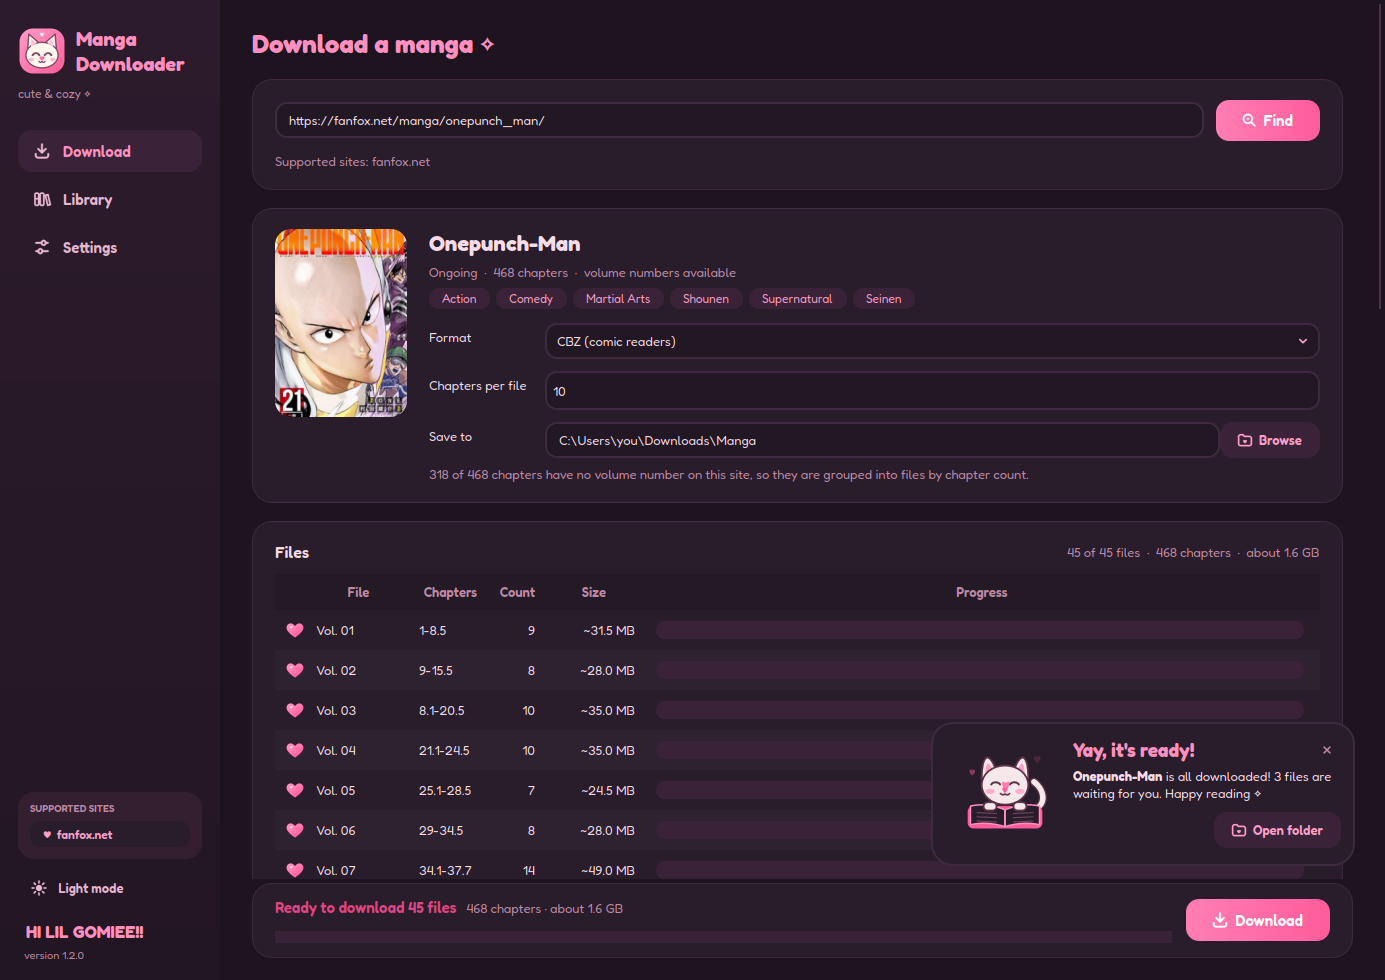
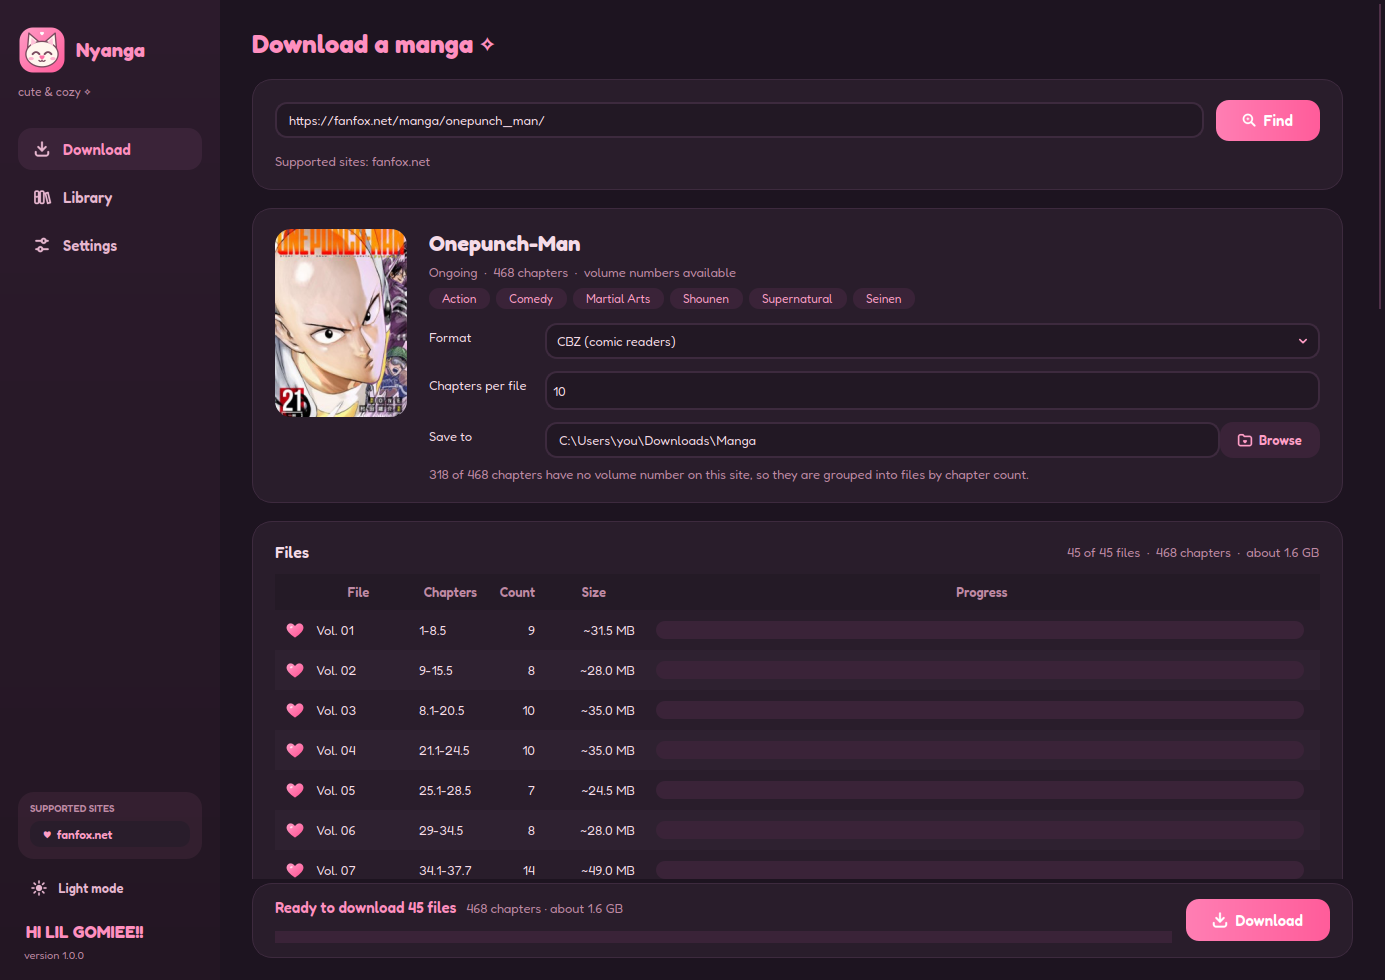
feat: rename the app to Nyanga
The app is now called Nyanga (nyan + manga), after the cat mascot. The window, sidebar,
installer, Start menu shortcut and exe all use the new name, and settings live in
%APPDATA%\Nyanga. The project lives at github.com/RealOrangeKun/nyanga.

diff --git a/updater.py b/updater.py
@@ -1,6 +1,6 @@
 """Finds newer releases on GitHub and installs them. Only the installed Windows app updates itself.
 
-Each release carries a MangaDownloader-Setup-<version>.exe. Updating downloads it and runs it
+Each release carries a Nyanga-Setup-<version>.exe. Updating downloads it and runs it
 silently: it closes the app, replaces its files, and opens the new version. No GUI code in here.
 """
 
@@ -20,10 +20,10 @@ import requests
 import paths
 from version import __version__
 
-REPO = "RealOrangeKun/manga-downloader"
+REPO = "RealOrangeKun/nyanga"
 RELEASES_PAGE = f"https://github.com/{REPO}/releases/latest"
 _API = f"https://api.github.com/repos/{REPO}/releases/latest"
-_FOLDER = Path(tempfile.gettempdir()) / "manga-downloader-update"
+_FOLDER = Path(tempfile.gettempdir()) / "nyanga-update"
 
 
 @dataclass
@@ -66,7 +66,7 @@ def is_newer(release: Release) -> bool:
 def download(release: Release, progress: Callable[[int, int], None]) -> Path:
     """Saves the installer to the temp folder, calling progress(done, total) as it goes."""
     _FOLDER.mkdir(parents=True, exist_ok=True)
-    out = _FOLDER / f"MangaDownloader-Setup-{release.version}.exe"
+    out = _FOLDER / f"Nyanga-Setup-{release.version}.exe"
     part = out.with_suffix(".part")
     with requests.get(release.url, stream=True, timeout=30) as resp:
         resp.raise_for_status()

diff --git a/gui.py b/gui.py
@@ -1440,7 +1440,7 @@ class MainWindow(QWidget):
 
     def __init__(self):
         super().__init__(objectName="root")
-        self.setWindowTitle("Manga Downloader")
+        self.setWindowTitle("Nyanga")
         self.setWindowIcon(theme.app_icon())
         self.resize(1120, 840)
         self.settings = Settings.load()
@@ -1460,7 +1460,7 @@ class MainWindow(QWidget):
         mascot = QLabel()
         mascot.setPixmap(theme.app_pixmap(96).scaled(48, 48, Qt.KeepAspectRatio, Qt.SmoothTransformation))
         brand.addWidget(mascot)
-        brand.addWidget(label("Manga\nDownloader", "logo"))
+        brand.addWidget(label("Nyanga", "logo"))
         brand.addStretch(1)
         sl.addLayout(brand)
         sl.addSpacing(4)
@@ -1706,8 +1706,8 @@ class MainWindow(QWidget):
 
 def main() -> None:
     app = QApplication(sys.argv)
-    app.setApplicationName("manga-downloader")
-    app.setApplicationDisplayName("Manga Downloader")
+    app.setApplicationName("nyanga")
+    app.setApplicationDisplayName("Nyanga")
     app.setFont(theme.load_font())
     app.setWindowIcon(theme.app_icon())
     window = MainWindow()

diff --git a/paths.py b/paths.py
@@ -15,8 +15,8 @@ _HERE = Path(__file__).resolve().parent
 BUNDLE = Path(getattr(sys, "_MEIPASS", _HERE))
 
 # Settings and library. From source they stay next to the script (git-ignored); the installed app
-# can't write to its own folder and an update replaces it, so it uses %APPDATA%\Manga Downloader.
+# can't write to its own folder and an update replaces it, so it uses %APPDATA%\Nyanga.
 if FROZEN:
-    DATA = Path(os.environ.get("APPDATA") or Path.home() / ".config") / "Manga Downloader"
+    DATA = Path(os.environ.get("APPDATA") or Path.home() / ".config") / "Nyanga"
 else:
     DATA = _HERE

diff --git a/scripts/next_version.py b/scripts/next_version.py
@@ -86,7 +86,7 @@ def main() -> None:
         for key, heading in SECTIONS:
             if notes[key]:
                 parts.append(f"### {heading}\n" + "".join(f"- {line}\n" for line in notes[key]))
-        parts.append("Download **MangaDownloader-Setup-{0}.exe** below and run it. Already installed? "
+        parts.append("Download **Nyanga-Setup-{0}.exe** below and run it. Already installed? "
                      "The app updates itself.\n".format(version))
         args.notes.write_text("\n".join(parts), encoding="utf-8")
     if args.write_version:

diff --git a/nyanga.py b/nyanga.py
@@ -1,5 +1,5 @@
 #!/usr/bin/env python3
-"""Manga downloader: opens the GUI."""
+"""Nyanga, the manga downloader: opens the GUI."""
 
 import multiprocessing
 

diff --git a/README.md b/README.md
@@ -1,17 +1,18 @@
 <p align="center">
-  <img src="assets/readme/icon.png" width="96" alt="The Manga Downloader cat">
+  <img src="assets/readme/icon.png" width="96" alt="The Nyanga cat">
 </p>
 
-<h1 align="center">Manga Downloader</h1>
+<h1 align="center">Nyanga</h1>
 
 <p align="center">
   <b>a cute &amp; cozy pink app that downloads manga for you ✧</b><br>
+  <i>nyan + manga: the cat fetches your chapters</i><br>
   one file per volume: CBZ, PDF, EPUB or plain image folders
 </p>
 
 <p align="center">
-  <a href="https://github.com/RealOrangeKun/manga-downloader/releases/latest"><img alt="Latest release" src="https://img.shields.io/github/v/release/RealOrangeKun/manga-downloader?style=for-the-badge&color=ff5c9a&label=latest"></a>
-  <a href="https://github.com/RealOrangeKun/manga-downloader/releases"><img alt="Downloads" src="https://img.shields.io/github/downloads/RealOrangeKun/manga-downloader/total?style=for-the-badge&color=ff9cc6"></a>
+  <a href="https://github.com/RealOrangeKun/nyanga/releases/latest"><img alt="Latest release" src="https://img.shields.io/github/v/release/RealOrangeKun/nyanga?style=for-the-badge&color=ff5c9a&label=latest"></a>
+  <a href="https://github.com/RealOrangeKun/nyanga/releases"><img alt="Downloads" src="https://img.shields.io/github/downloads/RealOrangeKun/nyanga/total?style=for-the-badge&color=ff9cc6"></a>
   <img alt="Windows" src="https://img.shields.io/badge/windows-installer-ffb3cf?style=for-the-badge">
 </p>
 
@@ -23,7 +24,7 @@
 </p>
 
 <p align="center">
-  <a href="https://github.com/RealOrangeKun/manga-downloader/releases/latest"><b>⬇ Download for Windows</b></a>
+  <a href="https://github.com/RealOrangeKun/nyanga/releases/latest"><b>⬇ Download for Windows</b></a>
   &nbsp;·&nbsp; <a href="#-using-it">How to use it</a>
   &nbsp;·&nbsp; <a href="#-run-from-source">Run from source</a>
 </p>
@@ -84,14 +85,14 @@ so they follow the light and dark theme.
 
 ## 💝 Install (Windows)
 
-1. Open the [latest release](https://github.com/RealOrangeKun/manga-downloader/releases/latest) and
-   download **MangaDownloader-Setup-x.y.z.exe**.
+1. Open the [latest release](https://github.com/RealOrangeKun/nyanga/releases/latest) and
+   download **Nyanga-Setup-x.y.z.exe**.
 2. Run it. Windows may say "Windows protected your PC" because the app isn't signed: click
    **More info**, then **Run anyway**. No admin rights are needed.
 3. Used it with Python before? On the **Bring your old settings** page, tick the import and pick
-   the folder that has `manga_dl.py` in it. Its `settings.json` and `library` folder (history
+   the folder that has `nyanga.py` in it. Its `settings.json` and `library` folder (history
    and covers) are copied into the installed app.
-4. Open **Manga Downloader** from the Start menu.
+4. Open **Nyanga** from the Start menu.
 
 That's the only time you install it ✧
 
@@ -99,7 +100,7 @@ That's the only time you install it ✧
 
 When a new version is out, a card pops up with **Update now**. It downloads the new version,
 installs it and reopens by itself. Your settings and library are kept (they live in
-`%APPDATA%\Manga Downloader`).
+`%APPDATA%\Nyanga`).
 
 Pressed **Later**? A button waits at the top right. While an update downloads with the card
 closed, that spot shows the delivery cat and how far along it is:
@@ -147,8 +148,8 @@ Every manga you've downloaded gets a card with its cover, how much of the series
 - **Delay between requests**: shared by all workers, so more workers never means more
   requests per second. Sites ask for human browsing speed; going too low can get you blocked.
 
-Settings and history are saved in `%APPDATA%\Manga Downloader` in the installed app, or next to
-`manga_dl.py` (`settings.json` and `library/`, both git-ignored) when running from source.
+Settings and history are saved in `%APPDATA%\Nyanga` in the installed app, or next to
+`nyanga.py` (`settings.json` and `library/`, both git-ignored) when running from source.
 
 ## 🛠 Run from source
 
@@ -159,7 +160,7 @@ Linux / macOS:
 ```sh
 python3 -m venv .venv
 .venv/bin/pip install -r requirements.txt
-.venv/bin/python manga_dl.py
+.venv/bin/python nyanga.py
 ```
 
 Windows (PowerShell):
@@ -167,7 +168,7 @@ Windows (PowerShell):
 ```powershell
 py -m venv .venv
 .venv\Scripts\pip install -r requirements.txt
-.venv\Scripts\python manga_dl.py
+.venv\Scripts\python nyanga.py
 ```
 
 After the first time, only the last line is needed.
@@ -184,14 +185,14 @@ commit messages since the last release ([conventional commits](https://www.conve
 | `feat!:` or a `BREAKING CHANGE:` line | `feat!: new settings format` | 1.1.0 → 2.0.0 |
 | `docs:`, `chore:`, `ci:`, `refactor:`, `style:`, `test:` | `docs: fix typo` | no release |
 
-If there's a new version, it builds the exe with PyInstaller ([packaging/manga_dl.spec](packaging/manga_dl.spec)),
+If there's a new version, it builds the exe with PyInstaller ([packaging/nyanga.spec](packaging/nyanga.spec)),
 wraps it in an Inno Setup installer ([packaging/installer.iss](packaging/installer.iss)), and publishes a
 GitHub Release tagged `vX.Y.Z` with the installer and notes made from the commits. The tag is
 the source of the version; `version.py` says `0.0.0-dev` in the repo and gets the real number
 during the build.
 
 To build locally on Windows: `pip install pyinstaller`, `python scripts/make_icon.py`,
-`pyinstaller packaging/manga_dl.spec --noconfirm`, then `ISCC.exe /DAppVersion=1.2.3 packaging\installer.iss`.
+`pyinstaller packaging/nyanga.spec --noconfirm`, then `ISCC.exe /DAppVersion=1.2.3 packaging\installer.iss`.
 
 ## 🧶 Notes
 

diff --git a/CLAUDE.md b/CLAUDE.md
@@ -18,7 +18,7 @@
 
 ## What this is
 
-A PySide6 desktop app (pink theme, cat animations) that downloads manga and saves it as one
+Nyanga (nyan + manga): a PySide6 desktop app (pink theme, cat animations) that downloads manga and saves it as one
 file per volume or per N chapters: CBZ, PDF, EPUB or image folders. Only site so far:
 fanfox.net (plain HTTP, no headless browser).
 
@@ -27,7 +27,7 @@ fanfox.net (plain HTTP, no headless browser).
 ```sh
 python3 -m venv .venv
 .venv/bin/pip install -r requirements.txt
-.venv/bin/python manga_dl.py
+.venv/bin/python nyanga.py
 ```
 
 Python 3.10+. Dependencies: requests, pillow, img2pdf, PySide6. There are no tests.
@@ -36,10 +36,10 @@ Python 3.10+. Dependencies: requests, pillow, img2pdf, PySide6. There are no tes
 
 | File | Role |
 |------|------|
-| `manga_dl.py` | Entry point, just launches `gui.main()` |
+| `nyanga.py` | Entry point, just launches `gui.main()` |
 | `core.py` | Site scrapers (`FanFox`, registered in `SITES`), chapter grouping, rate limiting, the parallel download pipeline (threads or processes). **No GUI imports.** |
 | `builders.py` | Output formats (`FORMATS`, `build_file`), webtoon strip slicing for EPUB. **No GUI imports** so it runs in worker processes. |
-| `paths.py` | `BUNDLE` (assets, also inside the exe) and `DATA` (settings/library: next to the script from source, `%APPDATA%\Manga Downloader` in the exe). Use these, never `__file__`, for file locations. |
+| `paths.py` | `BUNDLE` (assets, also inside the exe) and `DATA` (settings/library: next to the script from source, `%APPDATA%\Nyanga` in the exe). Use these, never `__file__`, for file locations. |
 | `updater.py` | Checks GitHub's latest release, downloads the installer, runs it silently with `/update=1`. Only active in the frozen Windows build. |
 | `version.py` | `__version__`; stays `0.0.0-dev` in the repo, CI writes the real one. Don't bump it by hand. |
 | `history.py` | Per-chapter download history in `library/history.json`, covers in `library/covers/` |
@@ -50,15 +50,15 @@ Python 3.10+. Dependencies: requests, pillow, img2pdf, PySide6. There are no tes
 
 ## Packaging and releases
 
-- `packaging/manga_dl.spec`: PyInstaller folder build (`dist/MangaDownloader/`), no console, no
+- `packaging/nyanga.spec`: PyInstaller folder build (`dist/Nyanga/`), no console, no
   UPX (UPX causes antivirus false positives). CI compiles the PyInstaller bootloader from source
   (`PYINSTALLER_COMPILE_BOOTLOADER=1`) for the same reason; keep it that way. Unused Qt parts (QML, Quick, PDF) are filtered out.
 - `packaging/installer.iss`: Inno Setup, per-user install in `%LOCALAPPDATA%\Programs`, no admin.
   Never change its `AppId`; updates rely on it. Its [Code] adds optional pages that import
-  `settings.json` and `library/` from an old source checkout into `%APPDATA%\Manga Downloader`.
+  `settings.json` and `library/` from an old source checkout into `%APPDATA%\Nyanga`.
 - `scripts/make_icon.py` draws `build/icon.ico` from the app icon in `theme.py`.
 - The version lives in git tags (`vX.Y.Z`) created by the release; nothing is committed back.
-- `manga_dl.py` must call `multiprocessing.freeze_support()` first, or the exe's worker
+- `nyanga.py` must call `multiprocessing.freeze_support()` first, or the exe's worker
   processes open new windows.
 
 ## Conventions
